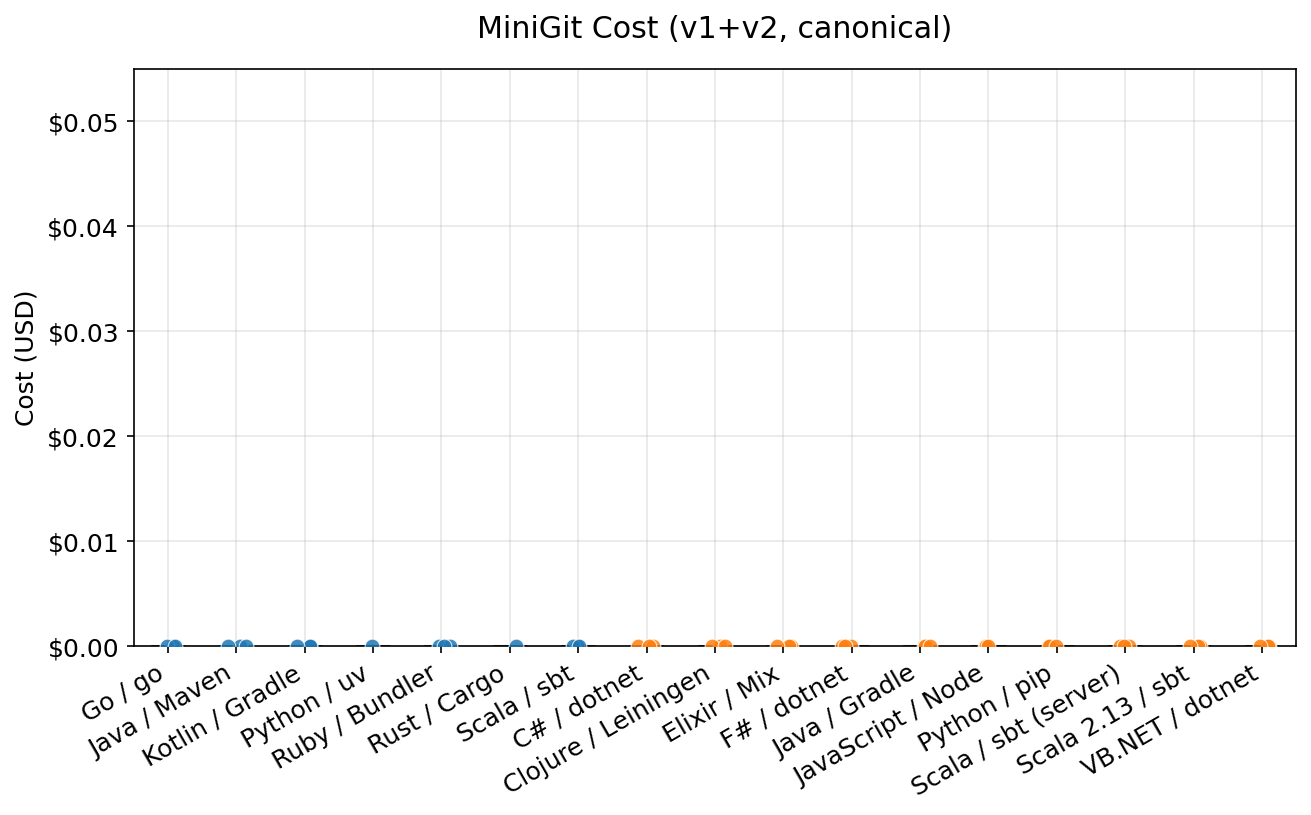
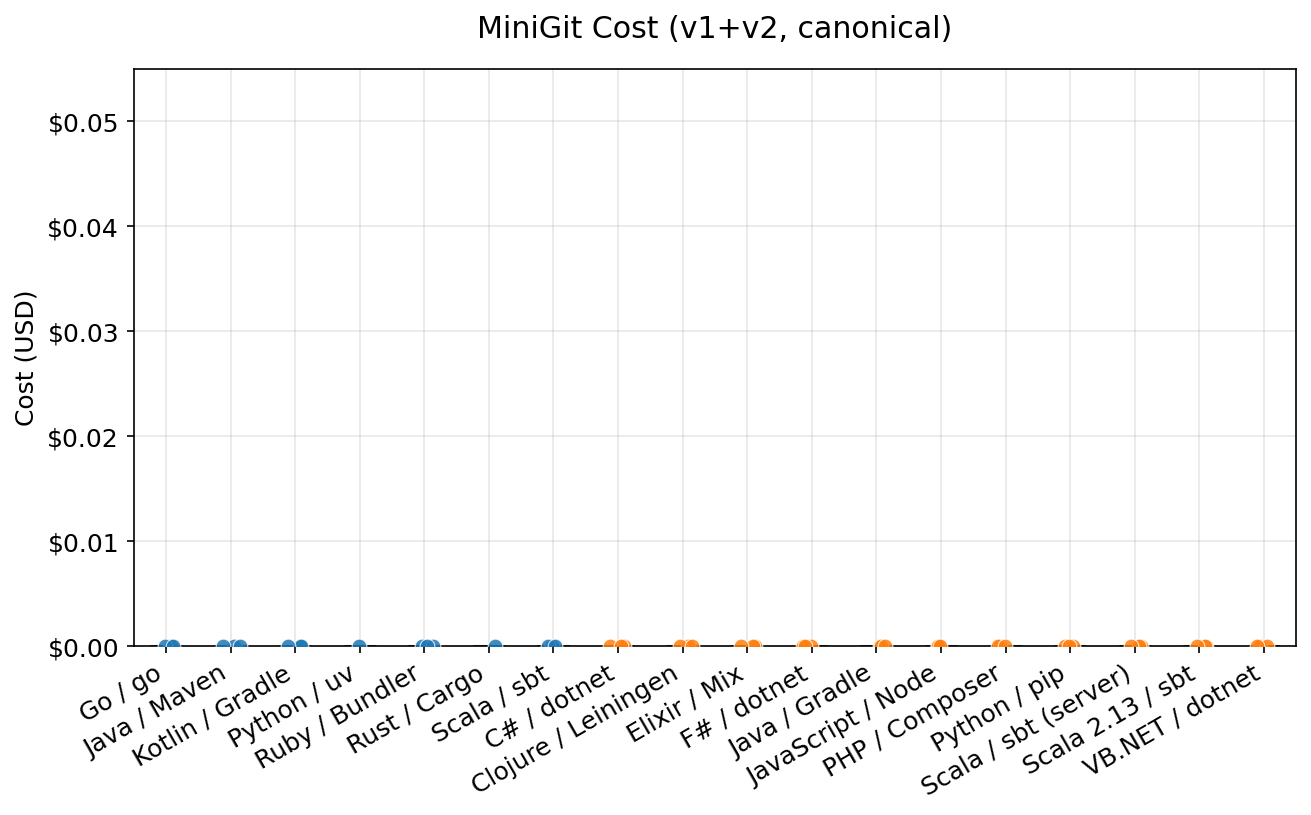
Add PHP/Composer results; Finding #7: PHP fastest per-LOC
PHP: 383s ±25s, 1340 LOC (4-5x other languages)
Time/100LOC: 28.6s — fastest of all languages, beating Go (42.2s)!

PHP's absolute slowness is entirely due to verbosity, not iteration
speed. Near-zero build latency + Claude's deep PHP familiarity makes
per-LOC throughput exceptional.

Changed region(s): [[0.061, 0.7669, 0.9764, 0.9816], [0.9458, 0.7669, 0.9764, 0.7975], [0.2136, 0.7669, 0.2441, 0.7975]]

diff --git a/README.md b/README.md
@@ -42,6 +42,7 @@ Each workflow was run **3 trials** (except Python/uv: 1 trial). All runs achieve
 | Java / Gradle | 342.3s | ±80.0s | 328 | 104.4s | static |
 | Scala 2.13 / sbt | 379.4s | ±65.0s | 239 | 158.7s | static |
 | Clojure / Lein ⚠ | 392.8s | ±54.0s | 230 | 170.8s | dynamic (JVM) |
+| PHP / Composer ⚠ | 383.1s | ±25.2s | 1340 | **28.6s** | dynamic |
 
 > ⚠ **Clojure note:** The Clojure/Lein result should not be read as a pure "dynamic typing on JVM" data point. `lein uberjar` performs full AOT compilation (macro expansion → bytecode generation) on every build cycle, which is a heavier pipeline than `javac`. A REPL-driven workflow would likely produce very different numbers. The result reflects the overhead of Leiningen's uberjar packaging model, not Clojure's runtime characteristics alone.
 
@@ -64,6 +65,11 @@ Within the JVM ecosystem alone, agent time ranges from 234s (Kotlin) to 379s (Sc
 **5. F# (static functional) outperforms Clojure (dynamic functional) by 135s.**
 F#/.NET 9 (258.0s ±22.9s) is substantially faster than Clojure/Leiningen (392.8s ±54.0s), despite both being functional languages. F# produces concise code (~256 LOC, comparable to dynamic languages) while retaining static typing. The `dotnet publish --self-contained` pipeline has low per-cycle latency, contributing to the speed advantage. This directly refutes any claim that functional style inherently favours dynamic typing for AI generation tasks.
 
+**7. PHP is verbose but iterates fast: lowest time-per-LOC of all languages tested.**
+PHP/Composer produces ~1340 LOC on average — 4–5× more than other languages — making its absolute agent time high (383s). However, its time-per-100-LOC (28.6s) is the lowest of all languages tested, beating even Go (42.2s). PHP has near-zero build-cycle latency (no compilation step) and Claude has deep PHP familiarity, so each iteration is fast. PHP's slowness in absolute terms is entirely explained by verbosity, not iteration speed.
+
+> ⚠ **PHP note:** The high LOC likely reflects Claude generating more verbose PHP code (explicit type hints, docblocks, array-style patterns) rather than a fundamental language limitation.
+
 **6. The .NET ecosystem is remarkably consistent across languages.**
 F# (258s), C# (277s), and VB.NET (295s) all finish within 37 seconds of each other despite being very different languages in style and modern popularity. VB.NET — now a relatively niche language — achieves 100% pass rates and competitive timings, suggesting Claude's training data is sufficient for even less-common .NET languages. F#'s edge likely comes from its more concise output (~256 LOC vs ~350 for C#/VB.NET).
 
@@ -81,7 +87,7 @@ Setup time is negligible for most workflows. The exception is Scala/sbt (≈7s s
 
 ## Status
 
-`results/` and `figures/` now contain canonical-track results for 15 workflows (see table above). The legacy greenfield results are preserved in the same `results.json` under `"track": "greenfield"` for continuity.
+`results/` and `figures/` now contain canonical-track results for 16 workflows (see table above). The legacy greenfield results are preserved in the same `results.json` under `"track": "greenfield"` for continuity.
 
 The benchmark harness separates:
 
